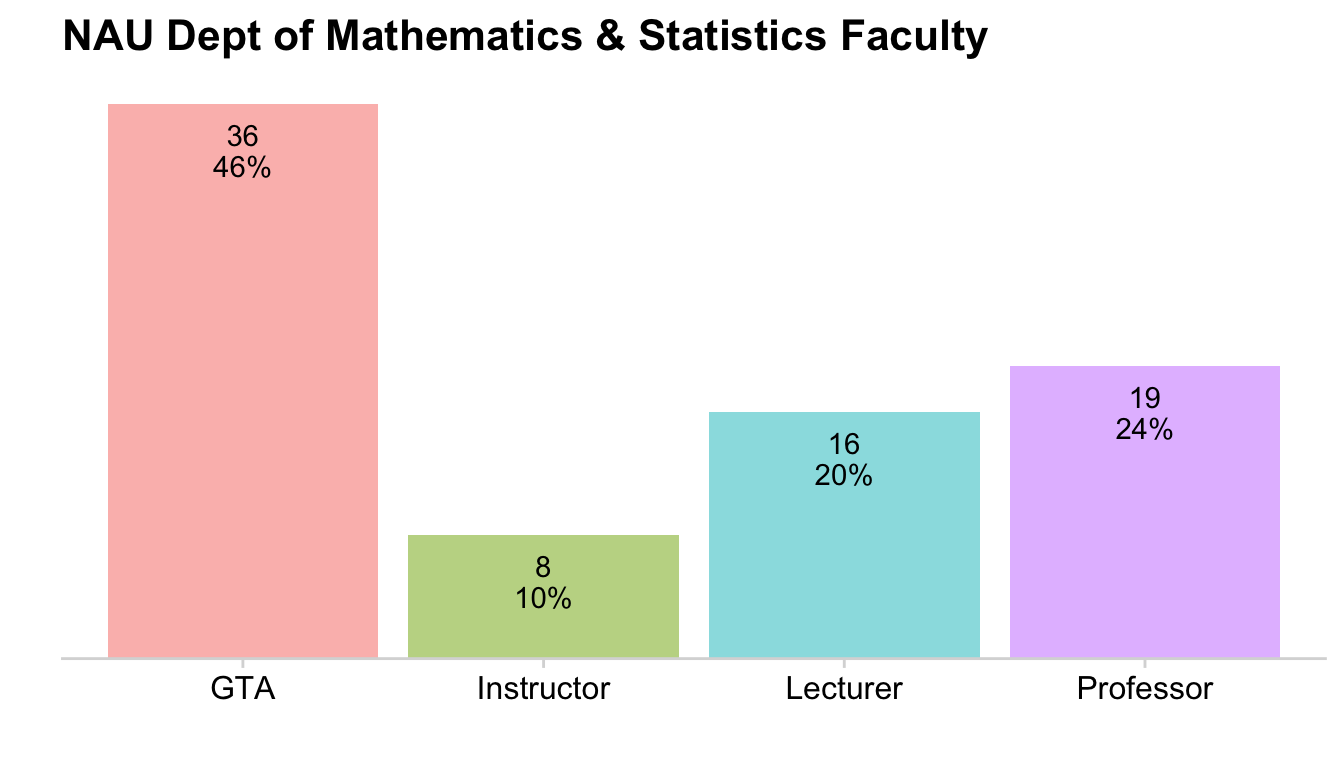
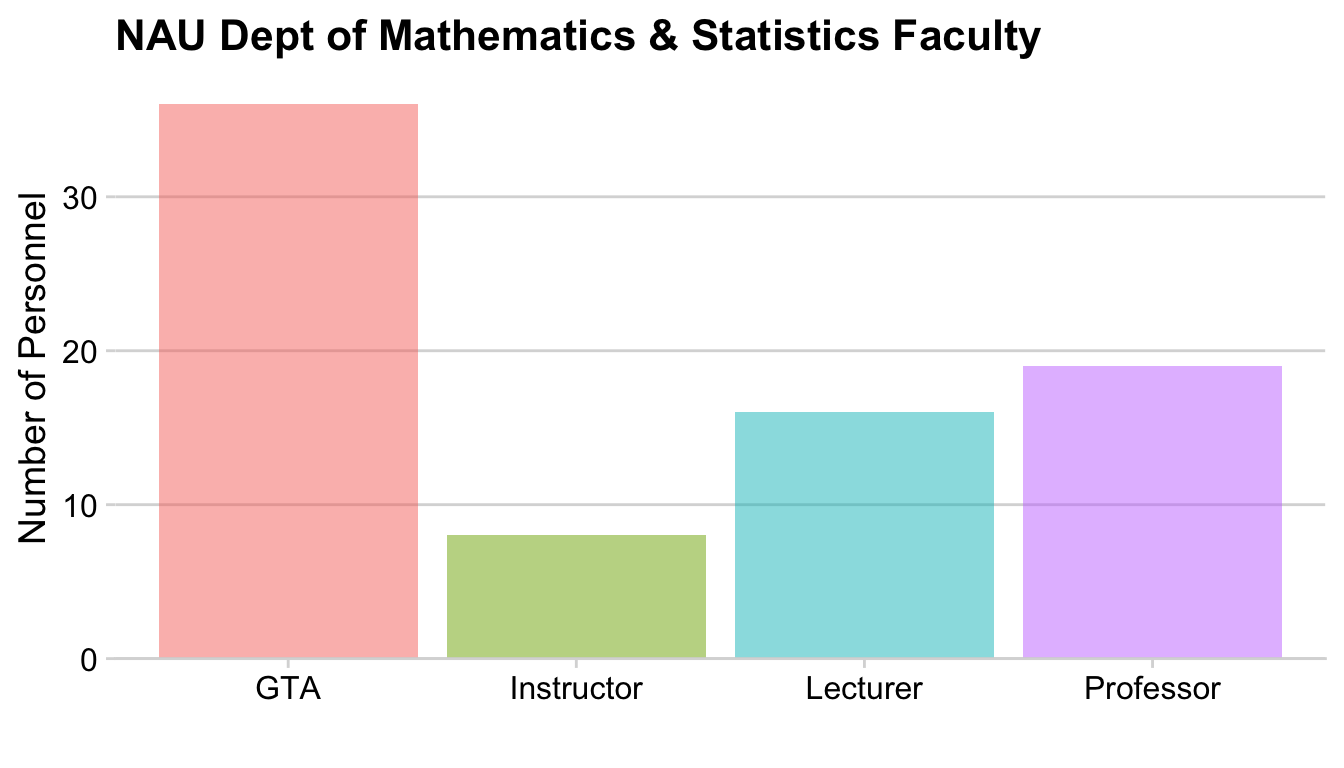
Tweaking some of the graphs in the proportions section.

diff --git a/docs/4-proportions.html b/docs/4-proportions.html
@@ -52,70 +52,6 @@
 
 
 
-<style type="text/css">
-code.sourceCode > span { display: inline-block; line-height: 1.25; }
-code.sourceCode > span { color: inherit; text-decoration: inherit; }
-code.sourceCode > span:empty { height: 1.2em; }
-.sourceCode { overflow: visible; }
-code.sourceCode { white-space: pre; position: relative; }
-pre.sourceCode { margin: 0; }
-@media screen {
-div.sourceCode { overflow: auto; }
-}
-@media print {
-code.sourceCode { white-space: pre-wrap; }
-code.sourceCode > span { text-indent: -5em; padding-left: 5em; }
-}
-pre.numberSource code
-  { counter-reset: source-line 0; }
-pre.numberSource code > span
-  { position: relative; left: -4em; counter-increment: source-line; }
-pre.numberSource code > span > a:first-child::before
-  { content: counter(source-line);
-    position: relative; left: -1em; text-align: right; vertical-align: baseline;
-    border: none; display: inline-block;
-    -webkit-touch-callout: none; -webkit-user-select: none;
-    -khtml-user-select: none; -moz-user-select: none;
-    -ms-user-select: none; user-select: none;
-    padding: 0 4px; width: 4em;
-    color: #aaaaaa;
-  }
-pre.numberSource { margin-left: 3em; border-left: 1px solid #aaaaaa;  padding-left: 4px; }
-div.sourceCode
-  {   }
-@media screen {
-code.sourceCode > span > a:first-child::before { text-decoration: underline; }
-}
-code span.al { color: #ff0000; font-weight: bold; } /* Alert */
-code span.an { color: #60a0b0; font-weight: bold; font-style: italic; } /* Annotation */
-code span.at { color: #7d9029; } /* Attribute */
-code span.bn { color: #40a070; } /* BaseN */
-code span.bu { } /* BuiltIn */
-code span.cf { color: #007020; font-weight: bold; } /* ControlFlow */
-code span.ch { color: #4070a0; } /* Char */
-code span.cn { color: #880000; } /* Constant */
-code span.co { color: #60a0b0; font-style: italic; } /* Comment */
-code span.cv { color: #60a0b0; font-weight: bold; font-style: italic; } /* CommentVar */
-code span.do { color: #ba2121; font-style: italic; } /* Documentation */
-code span.dt { color: #902000; } /* DataType */
-code span.dv { color: #40a070; } /* DecVal */
-code span.er { color: #ff0000; font-weight: bold; } /* Error */
-code span.ex { } /* Extension */
-code span.fl { color: #40a070; } /* Float */
-code span.fu { color: #06287e; } /* Function */
-code span.im { } /* Import */
-code span.in { color: #60a0b0; font-weight: bold; font-style: italic; } /* Information */
-code span.kw { color: #007020; font-weight: bold; } /* Keyword */
-code span.op { color: #666666; } /* Operator */
-code span.ot { color: #007020; } /* Other */
-code span.pp { color: #bc7a00; } /* Preprocessor */
-code span.sc { color: #4070a0; } /* SpecialChar */
-code span.ss { color: #bb6688; } /* SpecialString */
-code span.st { color: #4070a0; } /* String */
-code span.va { color: #19177c; } /* Variable */
-code span.vs { color: #4070a0; } /* VerbatimString */
-code span.wa { color: #60a0b0; font-weight: bold; font-style: italic; } /* Warning */
-</style>
 
 <link rel="stylesheet" href="style.css" type="text/css" />
 </head>
@@ -228,7 +164,7 @@ code span.wa { color: #60a0b0; font-weight: bold; font-style: italic; } /* Warni
 </div>
 <div id="side-by-side-barchart" class="section level3">
 <h3><span class="header-section-number">4.1.3</span> Side-by-side Barchart</h3>
-<p><img src="04_Proportions_files/figure-html/unnamed-chunk-5-1.png" width="672" /></p>
+<p><img src="04_Proportions_files/figure-html/unnamed-chunk-5-1.png" width="672" /><img src="04_Proportions_files/figure-html/unnamed-chunk-5-2.png" width="672" /></p>
 <table>
 <thead>
 <tr class="header">
@@ -458,20 +394,6 @@ gitbook.start({
 });
 </script>
 
-<!-- dynamically load mathjax for compatibility with self-contained -->
-<script>
-  (function () {
-    var script = document.createElement("script");
-    script.type = "text/javascript";
-    var src = "true";
-    if (src === "" || src === "true") src = "https://mathjax.rstudio.com/latest/MathJax.js?config=TeX-MML-AM_CHTML";
-    if (location.protocol !== "file:")
-      if (/^https?:/.test(src))
-        src = src.replace(/^https?:/, '');
-    script.src = src;
-    document.getElementsByTagName("head")[0].appendChild(script);
-  })();
-</script>
 </body>
 
 </html>

diff --git a/docs/04_Proportions.md b/docs/04_Proportions.md
@@ -21,7 +21,7 @@ As typical, with a just a few categories, we should move the labels onto the gra
 
 
 ### Side-by-side Barchart
-<img src="04_Proportions_files/figure-html/unnamed-chunk-5-1.png" width="672" />
+<img src="04_Proportions_files/figure-html/unnamed-chunk-5-1.png" width="672" /><img src="04_Proportions_files/figure-html/unnamed-chunk-5-2.png" width="672" />
 
 
 
